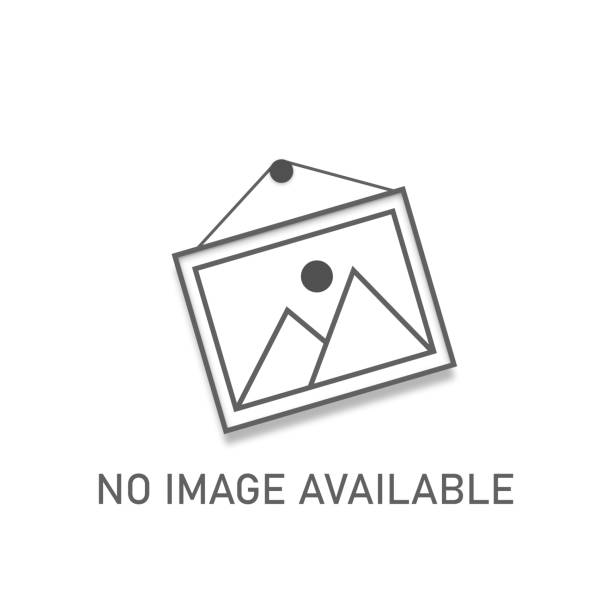
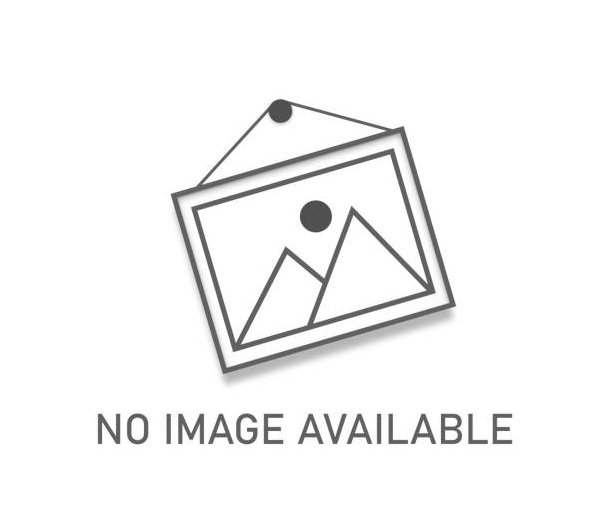
added default image

Changed region(s): [[0.2794, 0.1839, 0.7451, 0.7356], [0.1552, 0.7663, 0.8382, 0.8582]]

diff --git a/frontend/src/app/components/pages/home/home.component.ts b/frontend/src/app/components/pages/home/home.component.ts
@@ -3,6 +3,7 @@ import { Pet } from '../../../shared/models/Pet';
 import { PetService } from '../../../services/pet.service';
 import { ActivatedRoute } from '@angular/router';
 import { Observable } from 'rxjs';
+import { DEFAULT_PET_IMAGE_URL } from '../../../constants/defaultImage';
 
 @Component({
   selector: 'app-home',
@@ -11,7 +12,8 @@ import { Observable } from 'rxjs';
 })
 
 export class HomeComponent implements OnInit {
-  pets: Pet[] = [];
+  pets: Pet[] = [];  
+  defaultImageUrl : string = DEFAULT_PET_IMAGE_URL;
 
   constructor(private petService: PetService, activatedRoute: ActivatedRoute) {
     let petsObservable: Observable<Pet[]>;
@@ -25,11 +27,11 @@ export class HomeComponent implements OnInit {
 
       petsObservable.subscribe((serverPets) => {
         this.pets = serverPets;
-      })
-    })
-  }
+      });
+    });
+  };
 
   ngOnInit(): void {
 
-  }
-}
+  };
+};

diff --git a/frontend/src/app/components/pages/pet-page/pet-page.component.ts b/frontend/src/app/components/pages/pet-page/pet-page.component.ts
@@ -6,6 +6,7 @@ import { FavoritesService } from '../../../services/favorites.service';
 import { ToastrService } from 'ngx-toastr';
 import { UserService } from '../../../services/user.service';
 import { User } from '../../../shared/models/User';
+import { DEFAULT_PET_IMAGE_URL } from '../../../constants/defaultImage';
 
 @Component({
   selector: 'app-pet-page',
@@ -18,6 +19,7 @@ export class PetPageComponent implements OnInit {
   message: string = 'default';
   user!: User;
   isAdmin: boolean = false;
+  defaultImageUrl : string = DEFAULT_PET_IMAGE_URL;
 
   constructor(
     activatedRoute: ActivatedRoute,

diff --git a/frontend/src/app/components/pages/pet-page/pet-page.component.html b/frontend/src/app/components/pages/pet-page/pet-page.component.html
@@ -1,6 +1,7 @@
 <app-not-found [visible]="!pet" notFoundMessage="Pet not found." resetLinkText="Go to Homepage!"></app-not-found>
 <div *ngIf="pet" class="container">
-    <img [src]="pet.imageUrl" [alt]="pet.name" />
+    <img *ngIf="pet.imageUrl" [src]="pet.imageUrl" [alt]="pet.name" />
+    <img *ngIf="!pet.imageUrl" [src]="defaultImageUrl" [alt]="pet.name" />
     <div class="details">
         <div class="header">
             <span class="name">

diff --git a/frontend/src/app/components/partials/header/header.component.html b/frontend/src/app/components/partials/header/header.component.html
@@ -8,7 +8,7 @@
                 <li *ngIf="isAuthenticated" class="menu-container">
                     <a routerLink="/dashboard">{{user.name}}</a>
                     <div class="menu">
-                        <a>Profile</a>
+                        <!-- <a>Profile</a> -->
                         <a routerLink="/pet-upload">Upload a Pet</a>
                         <a (click)="logout()">Sign Out</a>
                     </div>

diff --git a/frontend/src/app/components/pages/home/home.component.html b/frontend/src/app/components/pages/home/home.component.html
@@ -4,7 +4,8 @@
 <ul>
     <li *ngFor="let pet of pets">
         <a routerLink="/pet/{{pet.id}}">
-            <img [src]="pet.imageUrl" [alt]="pet.name" />
+            <img *ngIf="pet.imageUrl" [src]="pet.imageUrl" [alt]="pet.name" />
+            <img *ngIf="!pet.imageUrl" [src]="defaultImageUrl" [alt]="pet.name" />
             <div class="content">
                 <div class="name">
                     {{pet.name}}

diff --git a/frontend/src/app/components/pages/home/home.component.css b/frontend/src/app/components/pages/home/home.component.css
@@ -17,6 +17,7 @@ li a{
     flex-direction: column;
     overflow: hidden;
     color: rgb(74, 151, 125);
+    min-height: 30rem;
 }
 
 li a:hover{
@@ -29,6 +30,8 @@ li a:hover{
 li a img{
     object-fit: cover;
     height: 18rem;
+    width: 100%;
+    margin-bottom: 2rem;
 }
 
 .content{
@@ -36,6 +39,7 @@ li a img{
     padding: 1rem 1rem;
     position: relative;
     height: 7rem;
+    flex: 1;
 }
 
 .favorite{

diff --git a/frontend/src/app/components/pages/pet-upload/pet-upload.component.html b/frontend/src/app/components/pages/pet-upload/pet-upload.component.html
@@ -41,6 +41,7 @@
             <div>
                 <label for="image" class="label">Image:</label>
                 <input type="file" id="image" (change)="onFileChanged($event)" class="form-input" required>
+                <small class="form-text text-muted">The image upload is under construction.</small>
             </div>
             <button type="submit" class="button">Upload Pet</button>
         </form>

diff --git a/frontend/src/app/components/pages/pet-upload/pet-upload.component.css b/frontend/src/app/components/pages/pet-upload/pet-upload.component.css
@@ -66,4 +66,8 @@
   .button:hover {
     background-color: rgb(74, 151, 125);
   }
+
+  .form-text {
+    color: rgb(251, 171, 100);
+  }
   

diff --git a/frontend/src/app/constants/defaultImage.ts b/frontend/src/app/constants/defaultImage.ts
@@ -1,0 +1,1 @@
+export const DEFAULT_PET_IMAGE_URL = 'assets/default.jpg';
